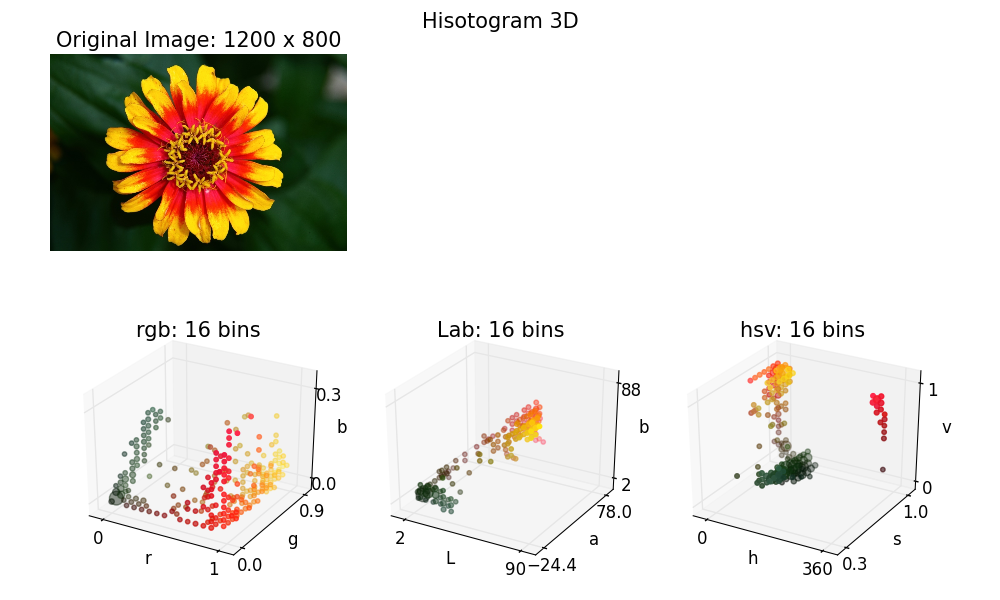
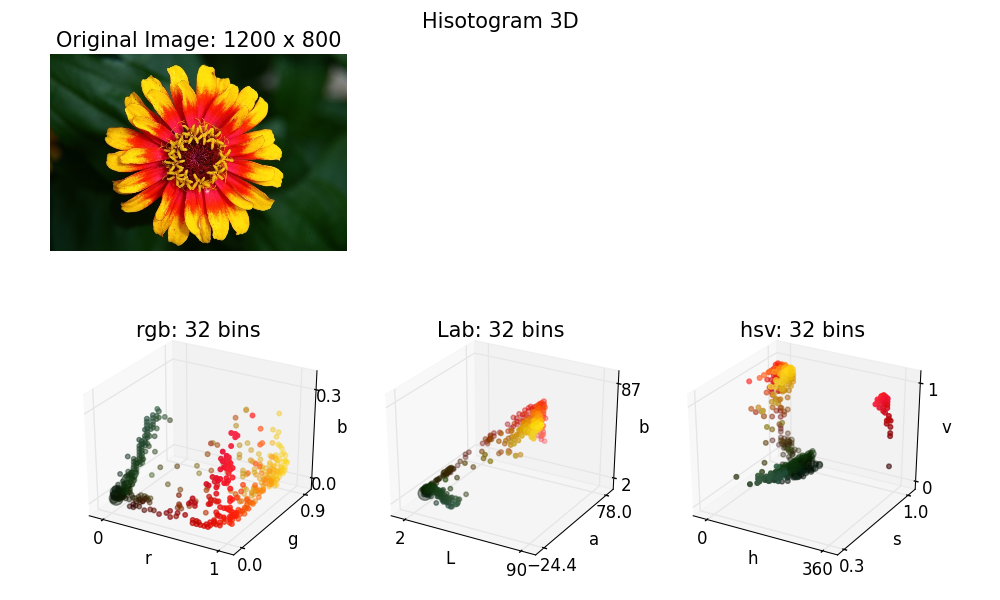
Update README.

diff --git a/color_histogram/results/hist_3d.py b/color_histogram/results/hist_3d.py
@@ -23,7 +23,7 @@ from color_histogram.util.timer import timing_func
 @timing_func
 def plotHistogram3D(image, color_space, ax):
     font_size = 15
-    num_bins = 16
+    num_bins = 32
     plt.title("%s: %s bins" % (color_space, num_bins), fontsize=font_size)
 
     hist3D = Hist3D(image, num_bins=num_bins, color_space=color_space)

diff --git a/color_histogram/results/hist_1d.py b/color_histogram/results/hist_1d.py
@@ -23,7 +23,7 @@ from color_histogram.core.hist_1d import Hist1D
 @timing_func
 def plotHistogram1D(image, color_space, channel, ax):
     font_size = 15
-    num_bins = 32
+    num_bins = 16
 
     plt.title("%s (%s): %s bins" % (color_space,
                                         color_space[channel],

diff --git a/README.md b/README.md
@@ -10,7 +10,7 @@ This package includes:
 * 2D color histogram: Hist2D class in [```color_histogram/core/hist_2d.py```](color_histogram/core/hist_2d.py).
 * 3D color histogram: Hist3D class in [```color_histogram/core/hist_3d.py```](color_histogram/core/hist_3d.py).
 
-## Result
+## Examples
 
 ### Histogram 1D:
 
@@ -35,7 +35,7 @@ plt.show()
 
 ```
 
-In the following demo, I show the L (Lab), h (HSV), v (HSV) plots.
+In the following demo, I show the L (Lab), h (HSV), v (HSV) plots by changing ```color_space``` and ```channel```.
 
 ![Histogram 1D](color_histogram/results/flower_2_hist1D.png)
 
@@ -62,7 +62,7 @@ hist2D.plot(ax)
 plt.show()
 ```
 
-In the following demo, I show the (h, s), (h, v), (s, v) plots.
+In the following demo, I show the (h, s), (h, v), (s, v) plots by changing ```channels```.
 
 ![Histogram 2D](color_histogram/results/flower_1_hist2D.png)
 
@@ -90,6 +90,8 @@ hist3D.plot(ax)
 plt.show()
 
 ```
+
+In the following demo, I show the RGB, Lab, HSV plots by changing ```color_space```.
 
 ![Histogram 3D](color_histogram/results/flower_0_hist3D.png)
 
@@ -123,24 +125,20 @@ Please run the following command from the shell.
 ```
 
 ## Usage
-### Package Structure
-* color_histogram: Main package.
-    - main.py: Main module for testing.
-    - results: Result images will be saved in the directory.
+### Run Color Histogram Demo
 
-### Test Color Histogram Demo
-You can test the color histogram demo with the following command from ```color_histogram``` directory..
+* [```color_histogram/main.py```](color_histogram/main.py):
+
+You can test the color histogram demo with the following command from ```color_histogram``` directory.
 ``` bash
   > python main.py
 ```
 
-This command will start downloading test images via Google Image API then run the ```color_histogram``` module to generate result images.
+This command will start downloading test images via Google Image API then run the demo module to generate result images in [```color_histogram/results```](color_histogram/results) directory.
 
-In the ```color_histogram/results``` folder, you can also find examples:
-
-* ```hist_1d.py```
-* ```hist_2d.py```
-* ```hist_3d.py```
+### Examples Codes
+* [```color_histogram/examples```](color_histogram/examples): You can find minimal example codes.
+* [```color_histogram/results```](color_histogram/results): You can also find examples codes to generate result images.
 
 <!-- ## API Document
 
